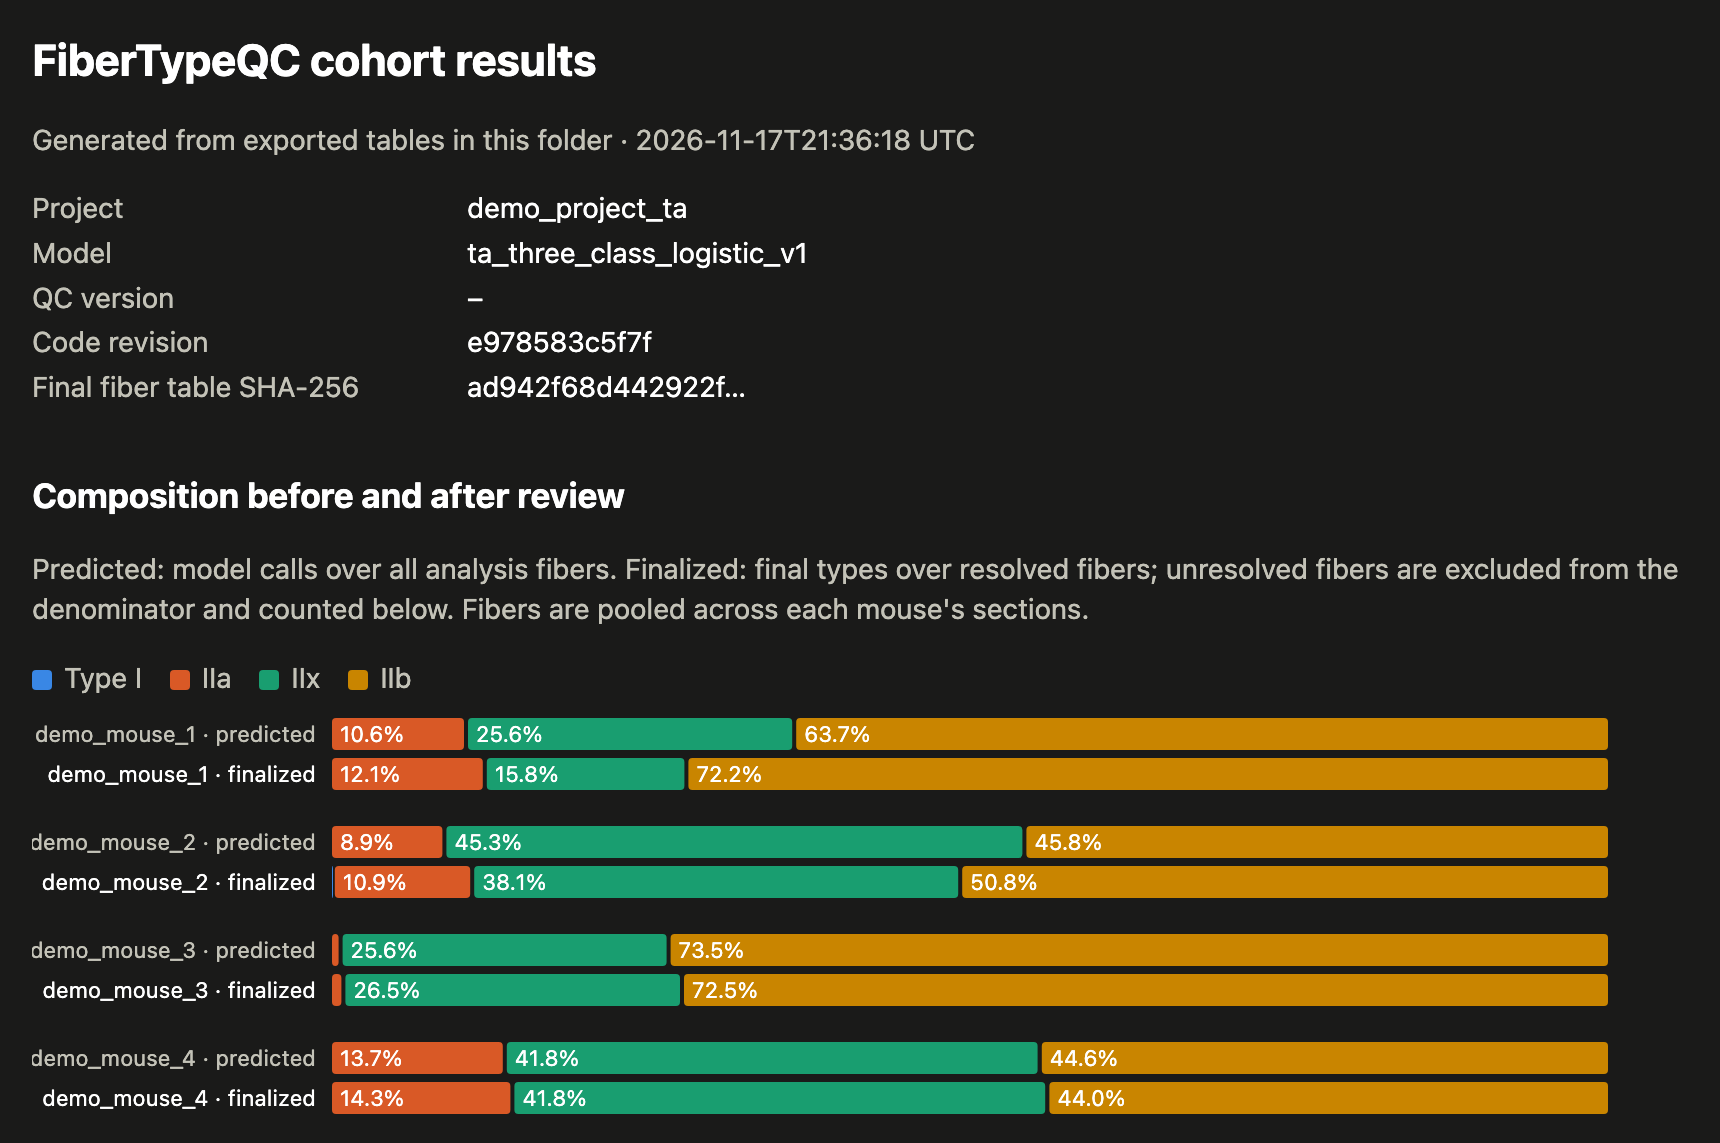
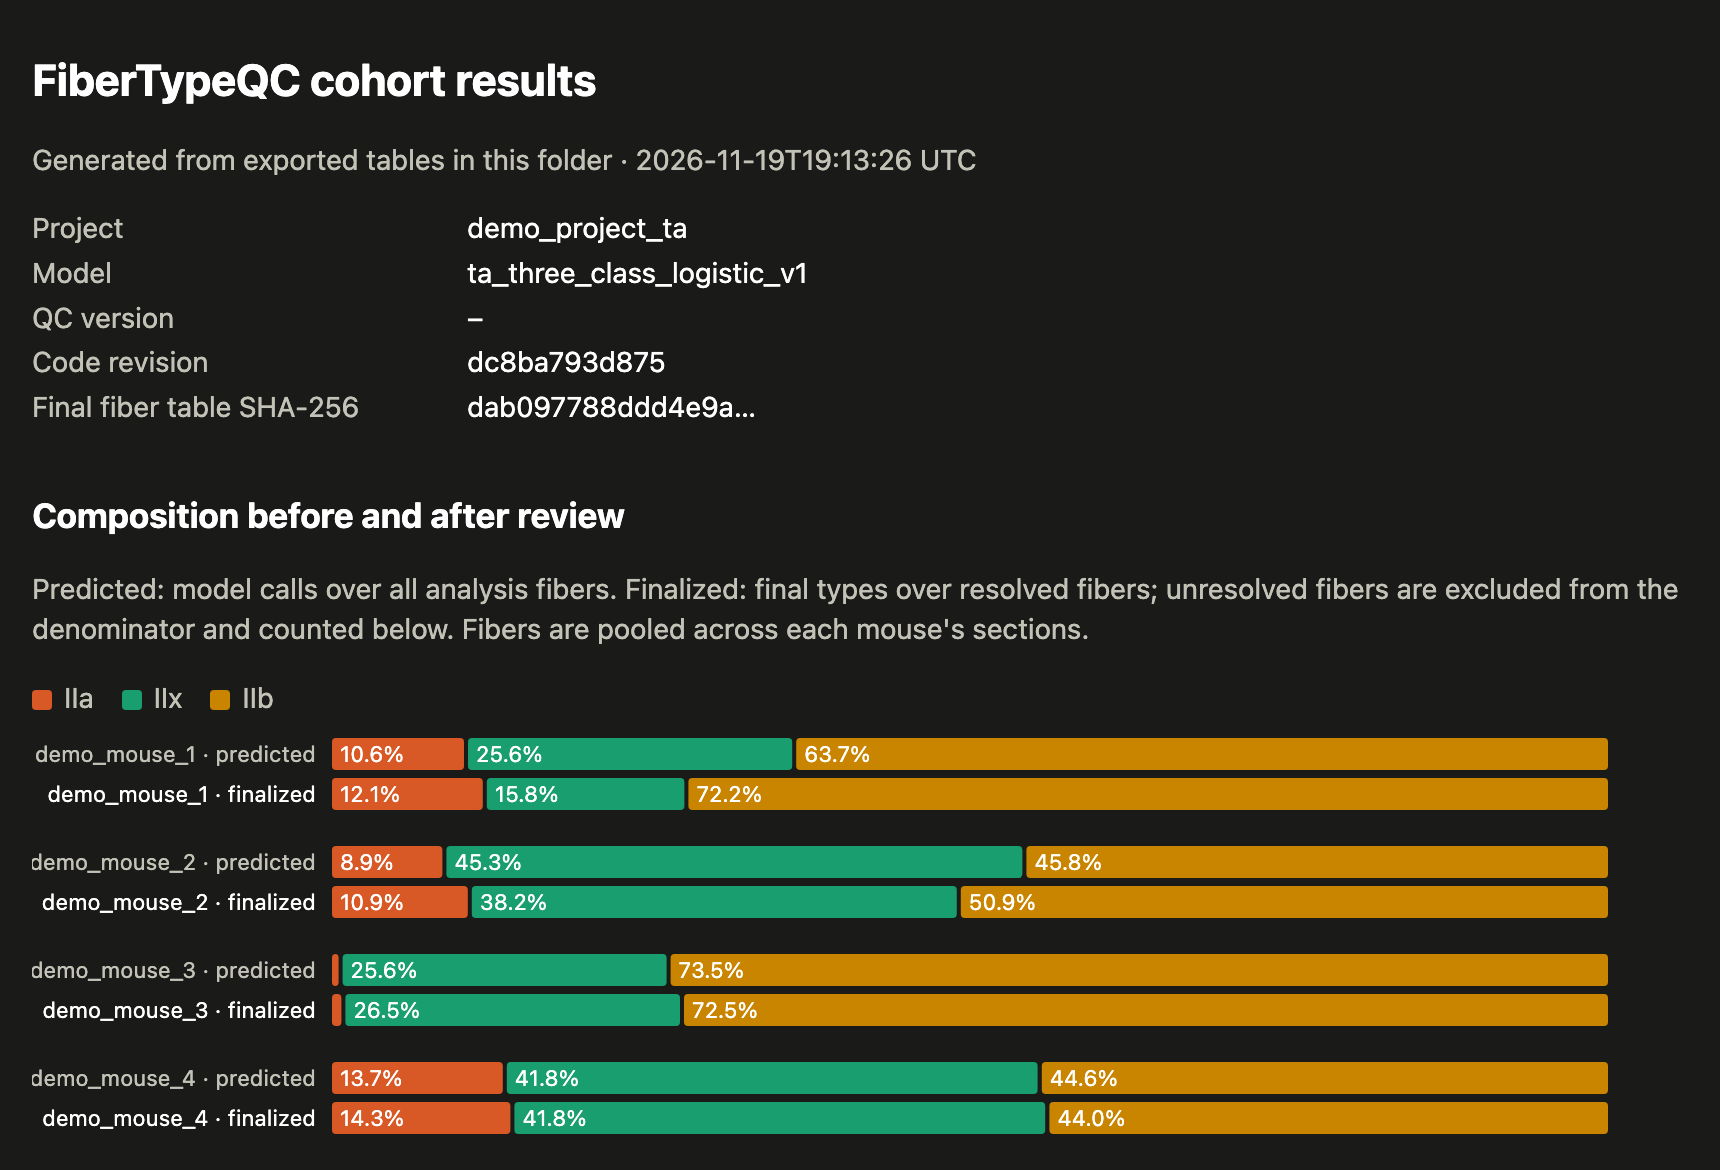
Finalize refuses unsupported reviewed classes; demo correction; version label (#117)
* Finalize refuses reviewed classes the project cannot produce; version label 0.5.1

A review decision whose class is not one of the project's classes (the model's
prob_ classes, or review_classes without a model) now stops finalization and names
the fibers. The public demo's example review had recorded one fiber as Type I on
the three-class TA panel (an older review window offered every class), and
finalization accepted it. scripts/mark_fiber_uncertain.py records such a fiber as
uncertain without choosing a class; the earlier decision stays in the event log.

fibertypeqc.__version__ (written as application_version in run artifacts) still
said 0.5.0 in v0.5.1; a test now keeps it, pyproject.toml, and CITATION.cff equal.

ROADMAP C3 now describes the outside test accurately: an install and a demo run
on example data, not an evaluation of the launcher or research adoption.

* Demo: correct the example review's Type I fiber; regenerate report images

Fiber 39 of demo_section_b was recorded as Type I on the three-class TA panel. It
is marked uncertain with scripts/mark_fiber_uncertain.py (no class chosen; the
earlier decisions stay in the event log) and the demo is finalized again.
docs/demo.md gives the new reviewed count (182 for demo_mouse_2) and the exact
commands; the README report images are re-captured from the corrected report.
The corrected fibertypeqc_demo.zip ships with the next release.

diff --git a/scripts/mark_fiber_uncertain.py b/scripts/mark_fiber_uncertain.py
@@ -1,0 +1,80 @@
+"""Mark one reviewed fiber as uncertain, outside the review window.
+
+Use this when finalization refuses a review decision whose class the project cannot produce
+(for example Type I on a panel without a Type I stain) and the fiber cannot be reviewed again in
+napari. The fiber's final type becomes unresolved; no class is chosen for it. The previous
+decision stays in the append-only event log (`review_events.csv`), and the new event records the
+reason given.
+
+Used to correct the public demo's example review (v0.5.2): fiber 39 of `demo_section_b` had been
+recorded as Type I on the three-class TA panel.
+
+    uv run python -m scripts.mark_fiber_uncertain PROJECT IMAGE_ID FIBER_ID --reason REASON
+"""
+
+from __future__ import annotations
+
+import argparse
+from pathlib import Path
+
+from src.review.project import load_project
+from src.review.schemas import Domain, FiberTypeDecision, ObjectReviewStatus, ReviewEvent, Scope
+from src.review.storage import append_review_event, load_session, save_session
+
+
+def mark_uncertain(project_path: Path, image_id: str, fiber_id: int, reason: str) -> ReviewEvent:
+    project = load_project(project_path)
+    session = load_session(project.review_state_path, expected_project_id=project.project_id)
+    previous = next(
+        (
+            decision
+            for decision in session.object_decisions
+            if decision.image_id == image_id and decision.fiber_id == fiber_id
+        ),
+        None,
+    )
+    if previous is None:
+        raise SystemExit(f"No review decision for fiber {fiber_id} in {image_id}.")
+    decision = FiberTypeDecision(
+        image_id=image_id,
+        fiber_id=fiber_id,
+        model_fiber_type=previous.model_fiber_type,
+        reviewed_fiber_type="uncertain",
+        review_status=ObjectReviewStatus.UNCERTAIN,
+        queue_source=previous.queue_source,
+        reason_code=reason,
+        reviewer=previous.reviewer,
+    )
+    session.record_fiber_type_decision(decision)
+    event = ReviewEvent(
+        image_id=image_id,
+        scope=Scope.OBJECT,
+        domain=Domain.FIBER_TYPING,
+        target_id=str(fiber_id),
+        action="record_fiber_type_decision",
+        reason_code=reason,
+        old_value=previous.to_dict(),
+        new_value=decision.to_dict(),
+        reviewer=previous.reviewer,
+        model_version=session.model_version,
+        qc_version=session.qc_version,
+    )
+    append_review_event(project.review_events_path, event)
+    save_session(project.review_state_path, session)
+    return event
+
+
+def main(argv: list[str] | None = None) -> int:
+    parser = argparse.ArgumentParser(description=__doc__.split("\n\n")[0])
+    parser.add_argument("project", type=Path, help="project folder or review project.yaml")
+    parser.add_argument("image_id")
+    parser.add_argument("fiber_id", type=int)
+    parser.add_argument("--reason", required=True, help="reason code recorded in the event log")
+    args = parser.parse_args(argv)
+    event = mark_uncertain(args.project, args.image_id, args.fiber_id, args.reason)
+    print(f"{args.image_id} fiber {args.fiber_id}: marked uncertain ({event.reason_code}).")
+    return 0
+
+
+if __name__ == "__main__":
+    raise SystemExit(main())

diff --git a/tests/test_review_finalization.py b/tests/test_review_finalization.py
@@ -1,5 +1,6 @@
 from __future__ import annotations
 
+import dataclasses
 import hashlib
 import json
 from pathlib import Path
@@ -39,6 +40,10 @@ def _write_image(directory: Path, image_id: str) -> None:
             "label": list(MODEL_CALLS),
             "fiber_type": list(MODEL_CALLS.values()),
             "prob_iia": [0.9, 0.1, 0.1, 0.2],
+            # One probability column per model class, as the pipeline writes them.
+            "prob_iib": [0.05, 0.8, 0.2, 0.1],
+            "prob_i": [0.03, 0.05, 0.6, 0.0],
+            "prob_iix": [0.02, 0.05, 0.1, 0.7],
             "model_confidence": [0.9, 0.8, 0.6, 0.7],
             "needs_review": [False, False, True, True],
         }
@@ -231,6 +236,59 @@ def test_excluded_image_and_unselected_sections_are_excluded(tmp_path):
         "three": "section_not_selected",
     }
     assert manifest["section_selection_applied"] is True
+
+
+def test_reviewed_class_the_project_cannot_produce_is_refused(tmp_path):
+    # A three-class model (no Type I stain): its fiber table has no Type I probabilities.
+    project = _project(tmp_path)
+    fibers_path = project.images[0].outputs["fiber_table"]
+    table = pd.read_csv(fibers_path)
+    table["prob_i"] = np.nan
+    table.loc[2, "fiber_type"] = "iix"
+    table.to_csv(fibers_path, index=False)
+    session = _session(project)
+    session.record_fiber_type_decision(
+        FiberTypeDecision(
+            image_id="one",
+            fiber_id=3,
+            model_fiber_type="iix",
+            reviewed_fiber_type="i",
+            review_status="corrected",
+            reviewer="reviewer_a",
+        )
+    )
+
+    with pytest.raises(FinalizationError, match=r"fiber 3 as 'i'.*'iia', 'iib', 'iix'"):
+        finalize_image(project, session, project.images[0])
+
+    # Marking the fiber uncertain resolves it without inventing a class; the log keeps both.
+    _decide(session, 1, "corrected", reviewed="iib")
+    session.record_fiber_type_decision(
+        FiberTypeDecision(
+            image_id="one",
+            fiber_id=3,
+            model_fiber_type="iix",
+            reviewed_fiber_type="",
+            review_status="uncertain",
+            reviewer="reviewer_a",
+        )
+    )
+    finalized = _by_id(finalize_image(project, session, project.images[0]))
+    assert finalized.loc[3, ["final_type", "value_source"]].tolist() == ["", "unresolved"]
+    assert finalized.loc[1, ["final_type", "value_source"]].tolist() == ["iib", "reviewed"]
+
+
+def test_reviewed_class_is_checked_against_review_classes_without_a_model(tmp_path):
+    project = _project(tmp_path)
+    project = dataclasses.replace(project, review_classes=("iia", "iib", "negative"))
+    session = _session(project)
+    _decide(session, 1, "corrected", reviewed="negative")
+    assert _by_id(finalize_image(project, session, project.images[0])).loc[1, "final_type"] == (
+        "negative"
+    )
+    _decide(session, 2, "corrected", reviewed="iix")
+    with pytest.raises(FinalizationError, match="fiber 2 as 'iix'"):
+        finalize_image(project, session, project.images[0])
 
 
 def test_changed_inputs_and_changed_predictions_are_refused(tmp_path):

diff --git a/src/review/finalization.py b/src/review/finalization.py
@@ -248,6 +248,23 @@ def _image_exclusion(
     return ""
 
 
+def _allowed_classes(project: Project, predictions: pd.DataFrame) -> set[str] | None:
+    """Classes a reviewed call may take: the project's review classes, else the model's.
+
+    The model's classes are its ``prob_<class>`` columns with any value, the convention the
+    summaries use (absent classes are written as empty placeholder columns). Returns None when
+    neither is known (rule-only runs), in which case no class check is made.
+    """
+    if project.review_classes:
+        return {normalize_review_label(value) for value in project.review_classes}
+    model_classes = {
+        normalize_review_label(column.removeprefix("prob_"))
+        for column in predictions.columns
+        if column.startswith("prob_") and predictions[column].notna().any()
+    }
+    return model_classes or None
+
+
 def finalize_image(
     project: Project,
     session: ReviewSession,
@@ -299,6 +316,9 @@ def finalize_image(
             "longer match the fiber table; predictions changed after review."
         )
 
+    allowed = _allowed_classes(project, predictions)
+    unsupported: list[tuple[int, str]] = []
+
     image_reason = _image_exclusion(session, image, selected_image_ids)
     region_excluded, region_unresolved, roi = _region_effects(session, image.image_id, centroids)
     flagged = (
@@ -344,10 +364,21 @@ def finalize_image(
             elif status is ObjectReviewStatus.ACCEPTED:
                 row.update(value_source="reviewed")
             else:
+                if allowed is not None and reviewed and reviewed not in allowed:
+                    unsupported.append((fiber_id, reviewed))
                 row.update(final_type=reviewed or model_call, value_source="reviewed")
         elif fiber_id in region_unresolved:
             row.update(final_type="", value_source="unresolved")
         rows.append(row)
+    if unsupported:
+        # A reviewed call outside the project's classes (e.g. Type I on a panel without a Type I
+        # stain) must not become a final type silently.
+        listed = ", ".join(f"fiber {fiber_id} as {label!r}" for fiber_id, label in unsupported)
+        raise FinalizationError(
+            f"{image.image_id}: {len(unsupported)} review decisions use a class this project "
+            f"cannot produce ({listed}); allowed classes are {sorted(allowed or ())}. Review "
+            "those fibers again, or mark them uncertain, before finalizing."
+        )
 
     final = pd.DataFrame(rows, columns=list(FINAL_COLUMNS), index=predictions.index)
     clashing = sorted(set(FINAL_COLUMNS) & set(predictions.columns))

diff --git a/tests/test_version_consistency.py b/tests/test_version_consistency.py
@@ -1,0 +1,19 @@
+"""The version recorded in outputs must match the released version metadata."""
+
+from __future__ import annotations
+
+import tomllib
+from pathlib import Path
+
+import yaml
+
+from fibertypeqc import __version__
+
+ROOT = Path(__file__).resolve().parents[1]
+
+
+def test_package_version_matches_pyproject_and_citation():
+    # `application_version` in every run artifact comes from fibertypeqc.__version__.
+    pyproject = tomllib.loads((ROOT / "pyproject.toml").read_text(encoding="utf-8"))
+    citation = yaml.safe_load((ROOT / "CITATION.cff").read_text(encoding="utf-8"))
+    assert __version__ == pyproject["project"]["version"] == str(citation["version"])

diff --git a/fibertypeqc/__init__.py b/fibertypeqc/__init__.py
@@ -1,3 +1,3 @@
 """FiberTypeQC public package namespace."""
 
-__version__ = "0.5.0"
+__version__ = "0.5.1"

diff --git a/CHANGELOG.md b/CHANGELOG.md
@@ -1,5 +1,33 @@
 # Changelog
 
+## Unreleased
+
+### Fixed
+
+- **Finalize refuses a reviewed class the project cannot produce.** A review decision whose class
+  is not one of the project's classes (the model's classes, or `review_classes` for a project
+  without a model) now stops finalization and names the fibers, instead of becoming a final type.
+  Example: Type I on a panel with no Type I stain. Review such fibers again, or mark them
+  uncertain. The current review window already offers only the project's classes; older review
+  sessions could hold other classes.
+- **Version label in outputs.** `fibertypeqc.__version__`, written as `application_version` in
+  run artifacts, still said 0.5.0 in v0.5.1; it now matches `pyproject.toml`, and a test keeps
+  the two and `CITATION.cff` in step.
+
+### Demo data
+
+- The completed demo's example review had one fiber (`demo_section_b`, fiber 39) recorded as
+  Type I on the three-class TA panel. It is now marked uncertain (unresolved, no class chosen)
+  with `scripts/mark_fiber_uncertain.py`, the project is finalized again, and the earlier
+  decisions stay in the event log. demo_mouse_2 has 182 reviewed fibers instead of 183; rounded
+  compositions are unchanged. The corrected `fibertypeqc_demo.zip` ships with the next release;
+  the README report images are regenerated from it.
+
+### Documentation
+
+- ROADMAP: the outside test (C3) is described as what it was: an install and a demonstration
+  run on the example data, not an evaluation of the launcher or research adoption.
+
 ## v0.5.1
 
 ### Release summary

diff --git a/docs/demo.md b/docs/demo.md
@@ -104,13 +104,22 @@ Its mouse-level summary (percent of resolved fibers, IIb / IIa / IIx):
 | Mouse | Age | Fibers | Excluded | Reviewed | Model calls | After review |
 |---|---|---|---|---|---|---|
 | demo_mouse_1 | 1 month | 334 | 61 | 102 | 64 / 11 / 26 | 72 / 12 / 16 |
-| demo_mouse_2 | 1 month | 531 | 72 | 183 | 46 / 9 / 45 | 51 / 11 / 38 |
+| demo_mouse_2 | 1 month | 531 | 72 | 182 | 46 / 9 / 45 | 51 / 11 / 38 |
 | demo_mouse_3 | 12 months | 550 | 70 | 55 | 74 / 1 / 26 | 72 / 1 / 26 |
 | demo_mouse_4 | 12 months | 560 | 55 | 66 | 45 / 14 / 42 | 44 / 14 / 42 |
 
 Nearly all exclusions are fibers cut off by the crop edge. Your own review will differ where your
 judgment does; the IIb/IIx split in particular depends on the absence of stain and is partly
 subjective.
+
+**Correction (from the v0.5.2 download).** The example review had recorded one fiber
+(`demo_section_b`, fiber 39) as Type I, a class this three-class panel cannot produce; an older
+review window offered every class. That fiber is now marked uncertain, so it is unresolved rather
+than given a class, and demo_mouse_2 has 182 reviewed fibers instead of 183. The earlier
+decisions remain in `review/review/review_events.csv`. The correction was made with
+`uv run python -m scripts.mark_fiber_uncertain demo_project_completed/review/project.yaml
+demo_section_b 39 --reason unsupported_class_type_i_on_ta_panel`, then `finalize`. Finalization
+now refuses such a class instead of using it.
 
 ## Build a model (no model to start from)
 

diff --git a/ROADMAP.md b/ROADMAP.md
@@ -20,8 +20,10 @@ Method validation is a separate track (D) and does not block JOSS unless it find
 ## Current state
 
 Done: Track A; B1 (`CITATION.cff` with ORCIDs and affiliations); B2 (Zenodo integration enabled);
-C1; C2; C3 (an outside user installed FiberTypeQC and ran the whole workflow on an HPC cluster
-through the launcher; their reports led to #83, #84, and #90, fixed in v0.5.0). HPC use (Slurm
+C1; C2; C3 (an outside researcher installed FiberTypeQC and ran the demonstration workflow on the
+example data; their experience informed usability changes in v0.5.0, tracked by the developer in
+#83, #84, and #90. This was a usability test, not research adoption, and the finished launcher has
+not yet been evaluated by an outside user). HPC use (Slurm
 batch, Open OnDemand review) is documented in `docs/install.md` and was checked on a cluster: the
 demo batch agreed with the macOS reference snapshot within tolerance.
 
